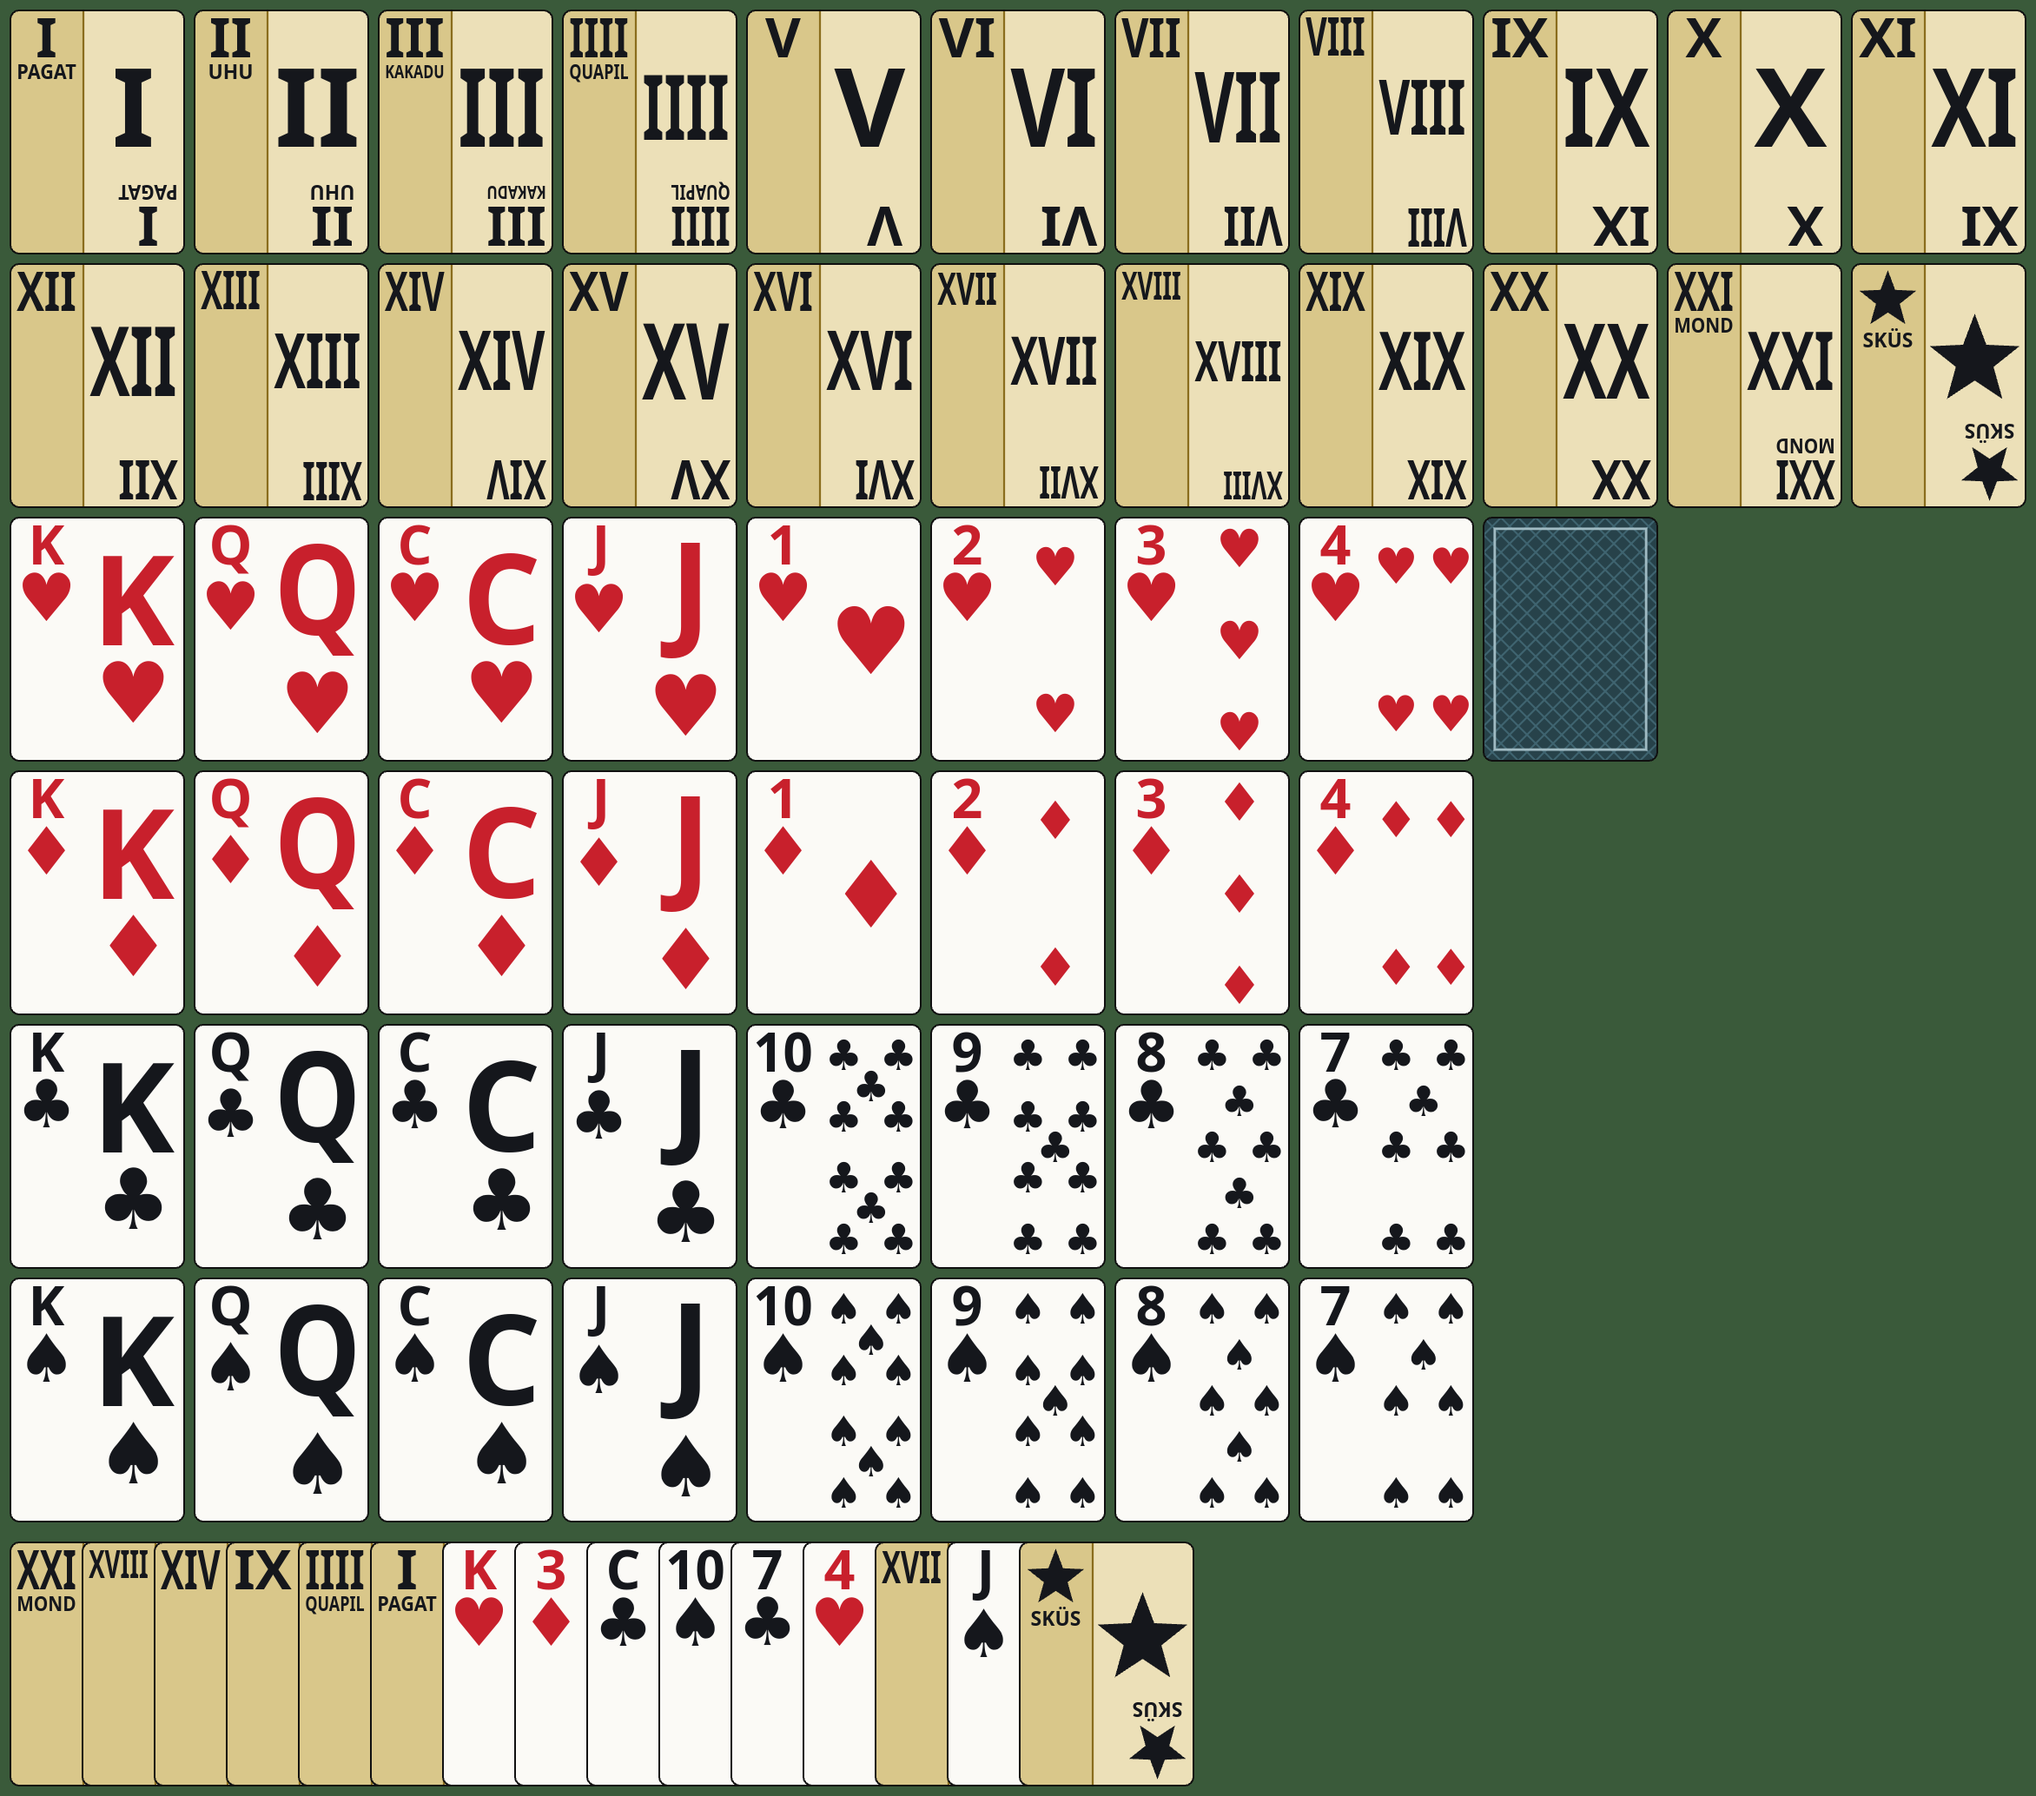
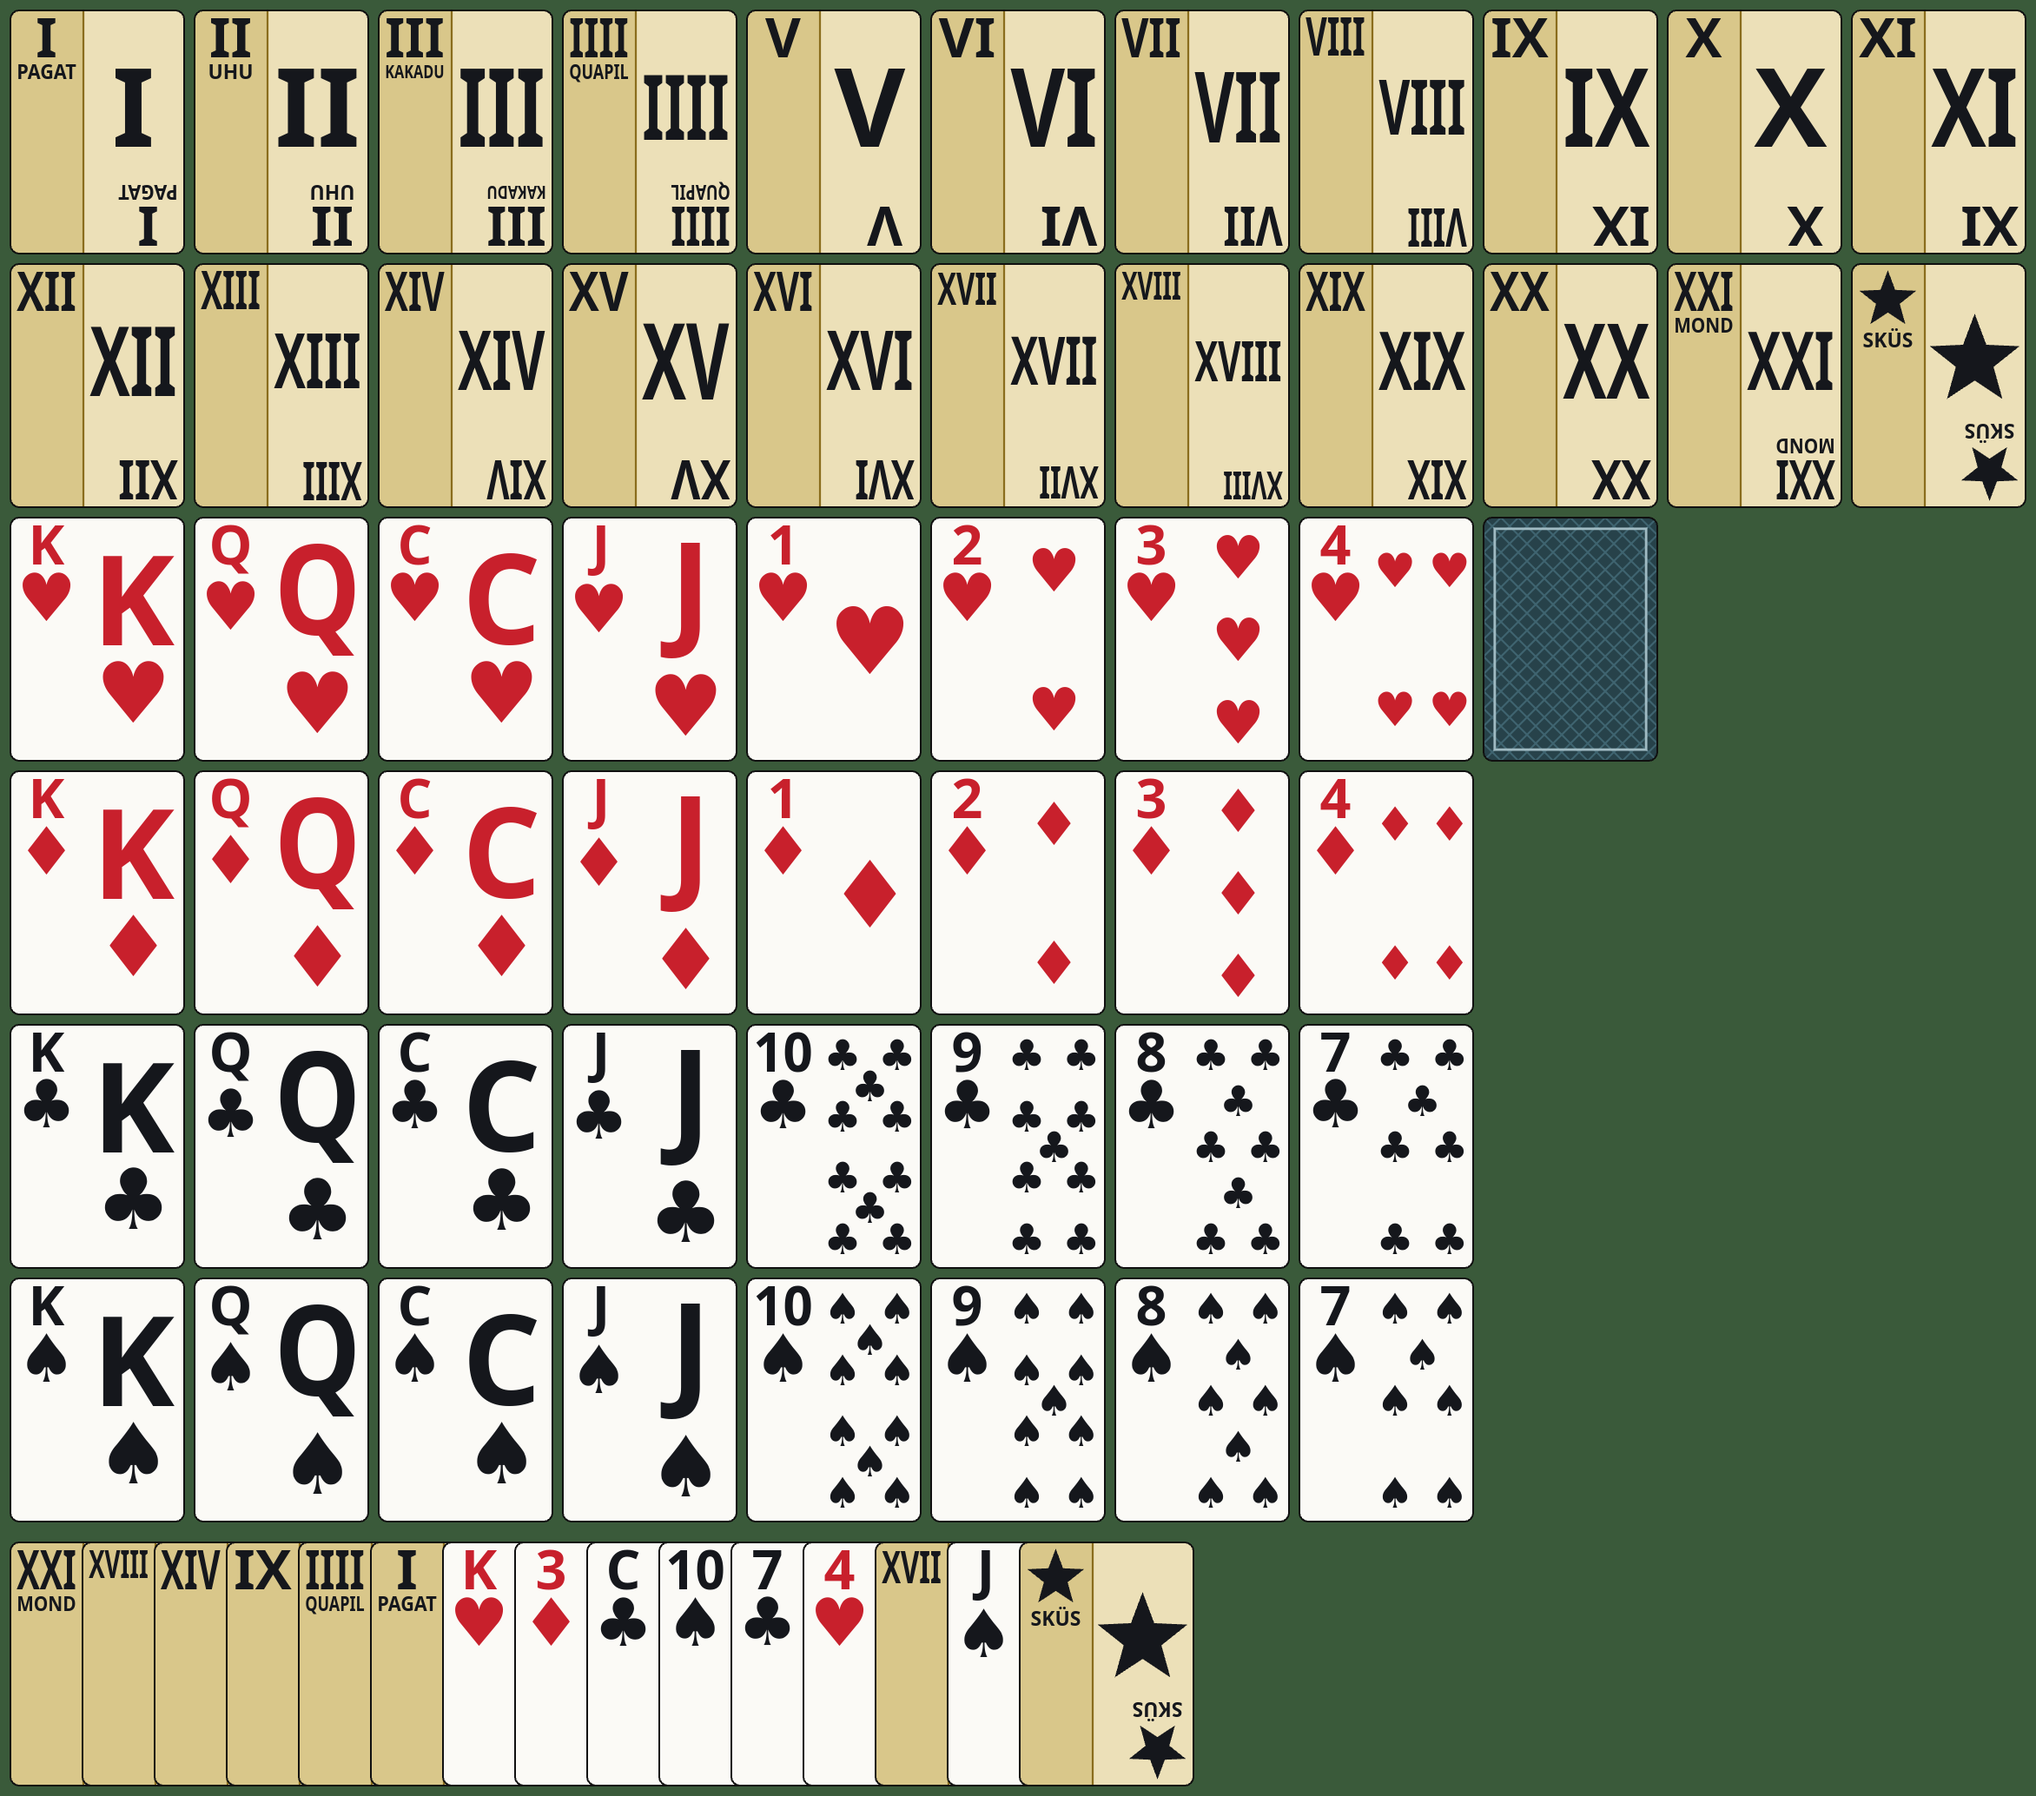
Faces: centre the pips on the body, count their real ink, add language-dependent court letters
Pips: the 1.25 enlargement applied at draw time was not in pipLayout, so the
bounds test passed while a 4's right-hand pips reached the card edge. Layout
sizes are now the drawn sizes, columns are symmetric about the room right of
the index strip, and the test measures ink (PIP_INK) and spacing by distance.
docs/img/faces.png regenerated.

Courts: drawFace(ctx, width, code, lang) and faceTextures({ lang }) letter the
courts K Q C J (en) or K D C B (de), or from a table of four letters;
COURT_CODES lists the 16 faces to redraw when the language changes. The
layout still follows the code, so nothing else on a face moves.

diff --git a/web3d/src/tarockfaces.js b/web3d/src/tarockfaces.js
@@ -47,6 +47,28 @@ export function parseCode(code) {
   throw new Error(`not a card code: ${JSON.stringify(code)}`);
 }
 
+// ---- Court labels, by language --------------------------------------------------
+
+// The letter a court shows: the code's K Q C J are the king, queen, cavalier
+// (horseman) and jack; German packs letter them K D C B (Dame, Bube).
+export const COURT_LABELS = Object.freeze({
+  en: Object.freeze({ K: "K", Q: "Q", C: "C", J: "J" }),
+  de: Object.freeze({ K: "K", Q: "D", C: "C", J: "B" }),
+});
+
+// The four court letters of a language ("en" or "de"), or of a table of the
+// four codes (a game with another language passes its own).
+export function courtLabels(lang = "en") {
+  const labels = typeof lang === "string" ? COURT_LABELS[lang] : lang;
+  if (!labels || !["K", "Q", "C", "J"].every((k) => typeof labels[k] === "string" && labels[k].length > 0)) {
+    throw new RangeError(`no court labels for ${JSON.stringify(lang)}`);
+  }
+  return labels;
+}
+
+// The 16 courts' codes, the faces to draw again when the language changes.
+export const COURT_CODES = Object.freeze(ALL_CODES.filter((c) => /^[KQCJ][hdcs]$/.test(c)));
+
 // ---- Roman numerals, as on the real pack -----------------------------------
 
 // Standard subtractive numerals, except 4, which is IIII.
@@ -195,20 +217,26 @@ function star(ctx, u, cx, cy, r, colour) {
 
 // ---- Pips ----------------------------------------------------------------------
 
-const COL = { l: 3.9, c: (JUMBO.strip + JUMBO.w) / 2 + 0.05, r: 6.1 };
+// The pip columns are symmetric about the body's centre line (BODY_X, the room
+// right of the index strip), so a face reads as centred in the room it has.
+const COL = { l: BODY_X - 1.1, c: BODY_X, r: BODY_X + 1.1 };
 const TOP = 1.2;
 const BOTTOM = JUMBO.h - 1.2;
 const at = (f) => TOP + (BOTTOM - TOP) * f;
+// What a glyph's ink fills of its font size (the widest of the four suits, at
+// 0.8 with margin), for keeping pips inside the room.
+export const PIP_INK = 0.8;
 
-// The pips of a rank "1".."4", "7".."10": { x, y, size } in card units.
+// The pips of a rank "1".."4", "7".."10": { x, y, size } in card units, `size`
+// being the font size they are drawn at.
 export function pipLayout(rank) {
   const col = (c, ys, size) => ys.map((f) => ({ x: COL[c], y: at(f), size }));
-  const S = 1.35;
+  const S = 1.7;
   switch (rank) {
-    case "1": return [{ x: COL.c, y: JUMBO.h / 2, size: 3 }];
-    case "2": return col("c", [0.1, 0.9], 1.7);
-    case "3": return col("c", [0, 0.5, 1], 1.7);
-    case "4": return [...col("l", [0.1, 0.9], 1.6), ...col("r", [0.1, 0.9], 1.6)];
+    case "1": return [{ x: COL.c, y: JUMBO.h / 2, size: 3.75 }];
+    case "2": return col("c", [0.12, 0.88], 2.4);
+    case "3": return col("c", [0.05, 0.5, 0.95], 2.4);
+    case "4": return [...col("l", [0.12, 0.88], 1.9), ...col("r", [0.12, 0.88], 1.9)];
     case "7": return [...col("l", [0, 0.5, 1], S), ...col("r", [0, 0.5, 1], S), ...col("c", [0.25], S)];
     case "8": return [...col("l", [0, 0.5, 1], S), ...col("r", [0, 0.5, 1], S), ...col("c", [0.25, 0.75], S)];
     case "9": return [...col("l", [0, 1 / 3, 2 / 3, 1], S), ...col("r", [0, 1 / 3, 2 / 3, 1], S), ...col("c", [0.5], S)];
@@ -279,7 +307,8 @@ function tarockFace(ctx, u, { text, nick, sku }) {
   put(ctx, u, text, { x: BODY_X, y: MID + cap / 2, size: n.size, scaleX: n.scaleX, font: rankFont, colour: ink });
 }
 
-function suitFace(ctx, u, { rank, suit }) {
+function suitFace(ctx, u, { rank: code, suit }, labels) {
+  const rank = labels[code] ?? code; // the letter shown; `code` decides the layout
   ctx.fillStyle = JUMBO.paper;
   ctx.fillRect(0, 0, JUMBO.w * u, JUMBO.h * u);
   const colour = COLOUR[suit];
@@ -292,7 +321,7 @@ function suitFace(ctx, u, { rank, suit }) {
   const ink = suitInkHeight(ctx) * s;
   glyph(ctx, u, suit, { x: AXIS, y: base + dip(ctx, rank, r.size) + JUMBO.gap + ink / 2, size: s, colour });
 
-  if (!/^\d/.test(rank)) {
+  if (!/^\d/.test(code)) {
     // A court: the rank letter large, the suit large under it.
     const f = fitText(ctx, rank, { room: BODY_W, maxSize: 5, minCondense: 0.62, font: rankFont });
     const cap = CAP(ctx, rankFont, f.size);
@@ -304,15 +333,17 @@ function suitFace(ctx, u, { rank, suit }) {
     glyph(ctx, u, suit, { x: BODY_X, y: top + cap + gap + sInk / 2, size: sz, colour });
     return;
   }
-  for (const p of pipLayout(rank)) glyph(ctx, u, suit, { x: p.x, y: p.y, size: p.size * 1.25, colour });
+  for (const p of pipLayout(code)) glyph(ctx, u, suit, { x: p.x, y: p.y, size: p.size, colour });
 }
 
 // The face of `code` ("T7", "SK", "Kh", "10c", "3d") on a 2D context `width`
-// pixels wide and 1.4 times as tall.
-export function drawFace(ctx, width, code) {
+// pixels wide and 1.4 times as tall. `lang` ("en", "de" or a table of K Q C J
+// letters) says how the courts are lettered.
+export function drawFace(ctx, width, code, lang = "en") {
   const c = parseCode(code);
+  const labels = courtLabels(lang);
   const u = width / JUMBO.w;
-  if (c.kind === "suit") suitFace(ctx, u, c);
+  if (c.kind === "suit") suitFace(ctx, u, c, labels);
   else if (c.kind === "sku") tarockFace(ctx, u, { sku: true });
   else tarockFace(ctx, u, { text: tarockNumeral(c.n), nick: NICKNAMES[c.n] ?? null });
 }
@@ -356,12 +387,14 @@ const canvasOf = (width) => {
   return canvas;
 };
 
-// The 54 faces as textures keyed by code, `width` pixels wide.
-export function faceTextures({ width, anisotropy = 1, codes = ALL_CODES }) {
+// The faces as textures keyed by code, `width` pixels wide: all 54, or `codes`
+// (COURT_CODES to redo only the courts when the language changes; dispose the
+// textures they replace).
+export function faceTextures({ width, anisotropy = 1, codes = ALL_CODES, lang = "en" }) {
   return Object.fromEntries(
     codes.map((code) => {
       const canvas = canvasOf(width);
-      drawFace(canvas.getContext("2d"), width, code);
+      drawFace(canvas.getContext("2d"), width, code, lang);
       return [code, cardTexture(new CanvasTexture(canvas), anisotropy)];
     }),
   );

diff --git a/web3d/test/tarockfaces.test.js b/web3d/test/tarockfaces.test.js
@@ -4,7 +4,7 @@ import test from "node:test";
 import assert from "node:assert/strict";
 import { readFileSync } from "node:fs";
 import {
-  ALL_CODES, NICKNAMES, TAROCK, contrast, drawBack, drawFace, fitText, nickname, parseCode, pipLayout, tarockNumeral,
+  ALL_CODES, COURT_CODES, COURT_LABELS, NICKNAMES, PIP_INK, TAROCK, contrast, courtLabels, drawBack, drawFace, fitText, nickname, parseCode, pipLayout, tarockNumeral,
 } from "../src/tarockfaces.js";
 import { JUMBO } from "../../kit/js/faces.js";
 
@@ -181,18 +181,32 @@ test("pips: as many symbols as the number, inside the card, none on another", ()
     const pips = pipLayout(rank);
     assert.equal(pips.length, n, rank);
     for (const p of pips) {
-      assert.ok(p.x - p.size / 2 >= JUMBO.strip && p.x + p.size / 2 <= JUMBO.w, rank);
-      assert.ok(p.y - p.size / 2 >= 0 && p.y + p.size / 2 <= JUMBO.h, rank);
+      // The ink (PIP_INK of the font size), not the font box: clear of the strip and 0.1 from the edge.
+      const half = (p.size * PIP_INK) / 2;
+      assert.ok(p.x - half >= JUMBO.strip && p.x + half <= JUMBO.w - 0.1, `${rank}: ${p.x - half}..${p.x + half}`);
+      assert.ok(p.y - half >= 0.2 && p.y + half <= JUMBO.h - 0.2, rank);
     }
     for (let i = 0; i < n; i++) {
       for (let j = i + 1; j < n; j++) {
         const a = pips[i], b = pips[j];
-        const reach = ((a.size + b.size) / 2) * 0.85;
-        assert.ok(Math.abs(a.x - b.x) >= reach || Math.abs(a.y - b.y) >= reach, `${rank}: pips ${i} and ${j} touch`);
+        const reach = ((a.size + b.size) / 2) * PIP_INK;
+        assert.ok(Math.hypot(a.x - b.x, a.y - b.y) >= reach, `${rank}: pips ${i} and ${j} touch`);
       }
     }
   }
   assert.throws(() => pipLayout("K"));
+});
+
+test("pips sit centred in the room right of the strip, left-right symmetric", () => {
+  const bodyX = (JUMBO.strip + 0.3 + JUMBO.w - 0.3) / 2;
+  for (const rank of ["1", "2", "3", "4", "7", "8", "9", "10"]) {
+    const xs = pipLayout(rank).map((p) => p.x);
+    assert.ok(Math.abs((Math.min(...xs) + Math.max(...xs)) / 2 - bodyX) < 1e-9, rank);
+  }
+  for (const rank of ["1", "2", "3"]) assert.ok(pipLayout(rank).every((p) => Math.abs(p.x - bodyX) < 1e-9), rank);
+});
+
+test("pips: each symbol is drawn once at its layout size", () => {
   // The index's suit and one glyph for each pip.
   for (const [code, n] of [["7s", 7], ["10c", 10], ["3h", 3], ["4d", 4], ["1h", 1]]) {
     const ctx = recorder();
@@ -234,4 +248,43 @@ test("the back is a plain pattern, drawn from edge to edge, with no text", () =>
   assert.deepEqual(ctx.calls[0].slice(0, 4), ["fillRect", 0, 0, 700]);
   assert.equal(textsOf(ctx).length, 0);
   assert.ok(ctx.calls.length > 10);
+});
+
+test("court letters follow the language: K Q C J in English, K D C B in German", () => {
+  assert.deepEqual({ ...COURT_LABELS.en }, { K: "K", Q: "Q", C: "C", J: "J" });
+  assert.deepEqual({ ...COURT_LABELS.de }, { K: "K", Q: "D", C: "C", J: "B" });
+  assert.equal(COURT_CODES.length, 16);
+  assert.ok(COURT_CODES.every((c) => /^[KQCJ][hdcs]$/.test(c)));
+  const lettersOf = (code, lang) => {
+    const ctx = recorder();
+    drawFace(ctx, 700, code, lang);
+    return textsOf(ctx).map((c) => c[1]).filter((t) => !/[♠♥♦♣]/.test(t));
+  };
+  for (const suit of "hdcs") {
+    for (const code of COURT_CODES.filter((c) => c[1] === suit)) {
+      const want = { en: COURT_LABELS.en[code[0]], de: COURT_LABELS.de[code[0]] };
+      assert.deepEqual(lettersOf(code), [want.en, want.en], code);
+      assert.deepEqual(lettersOf(code, "en"), [want.en, want.en], code);
+      assert.deepEqual(lettersOf(code, "de"), [want.de, want.de], code);
+    }
+  }
+  assert.deepEqual(lettersOf("Qh", "de"), ["D", "D"]);
+  assert.deepEqual(lettersOf("Js", "de"), ["B", "B"]);
+});
+
+test("languages leave everything but the courts alone", () => {
+  for (const code of ALL_CODES.filter((c) => !COURT_CODES.includes(c))) {
+    const a = recorder();
+    const b = recorder();
+    drawFace(a, 700, code, "en");
+    drawFace(b, 700, code, "de");
+    assert.deepEqual(a.calls, b.calls, code);
+  }
+});
+
+test("court labels: another language is a table of the four letters; a bad one is refused", () => {
+  assert.equal(courtLabels({ K: "R", Q: "D", C: "C", J: "V" }).K, "R");
+  assert.throws(() => courtLabels("fr"), RangeError);
+  assert.throws(() => courtLabels({ K: "K", Q: "Q", C: "C" }), RangeError);
+  assert.throws(() => drawFace(recorder(), 700, "Kh", "xx"), RangeError);
 });
